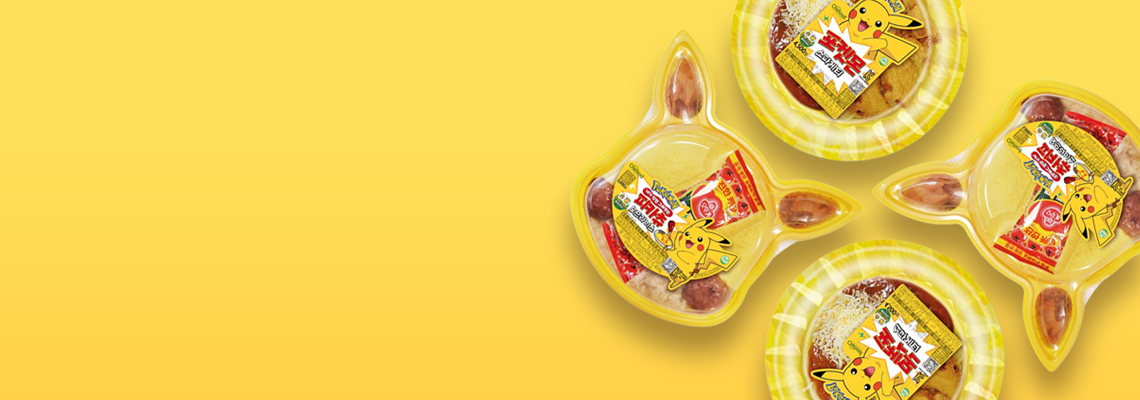
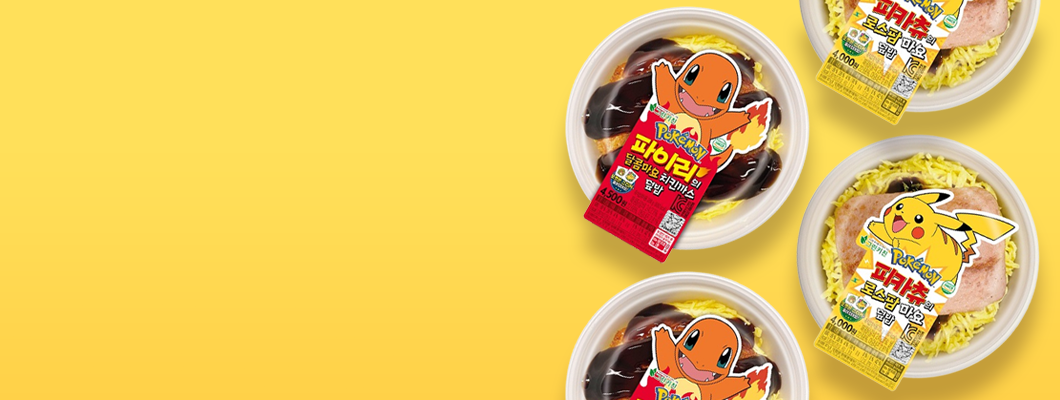
Chore: 슬라이드 이미지 변경

diff --git a/client/src/components/Slide.js b/client/src/components/Slide.js
@@ -38,8 +38,8 @@ const Slide = () => {
             <div className="slide-box two">
                 <div className="img-box"></div>
                 <div className={window.innerWidth <= 767 ? "text-box" : "text-box blind"}>
-                    <p>포켓몬 스티커 &#38; 써클칩이 들어있는</p>
-                    <h3><span>7</span>-Eleven 포켓몬<br />피카츄 도시락 시리즈</h3>
+                    <p>18종 랜덤 포켓몬 스티커가 들어있는</p>
+                    <h3><span>7</span>-Eleven 포켓몬<br />피카츄 & 파이리 덮밥</h3>
                 </div>
             </div>
             <div className="slide-box three">

diff --git a/server/server.js b/server/server.js
@@ -5,11 +5,9 @@ const port = process.env.PORT || 5000;
 const puppeteer = require("puppeteer");
 const cheerio = require("cheerio");
 const axios = require("axios");
-const cors = require("cors");
 const admin = require("firebase-admin");
 var serviceAccount = require(path.resolve(__dirname,'../serviceAccountKey.json'));
 
-app.use(cors());
 app.use(express.static(path.join(__dirname, '../client/build')));
 
 admin.initializeApp({
